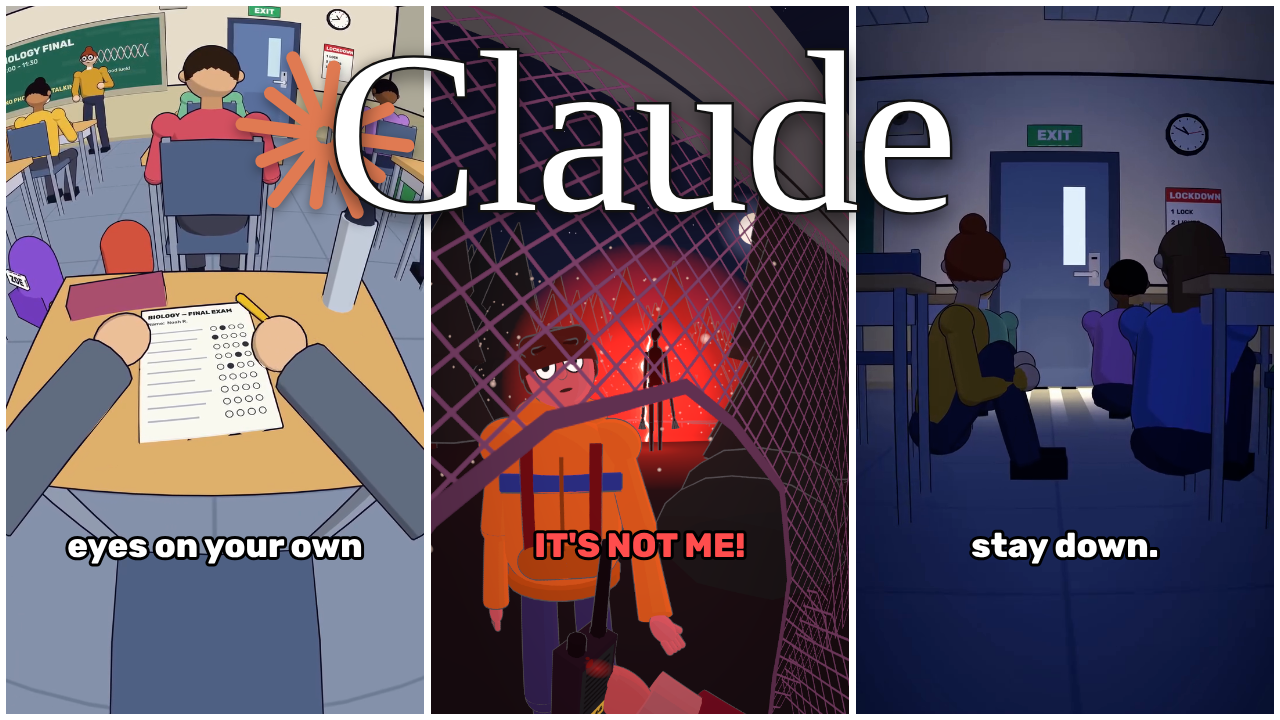
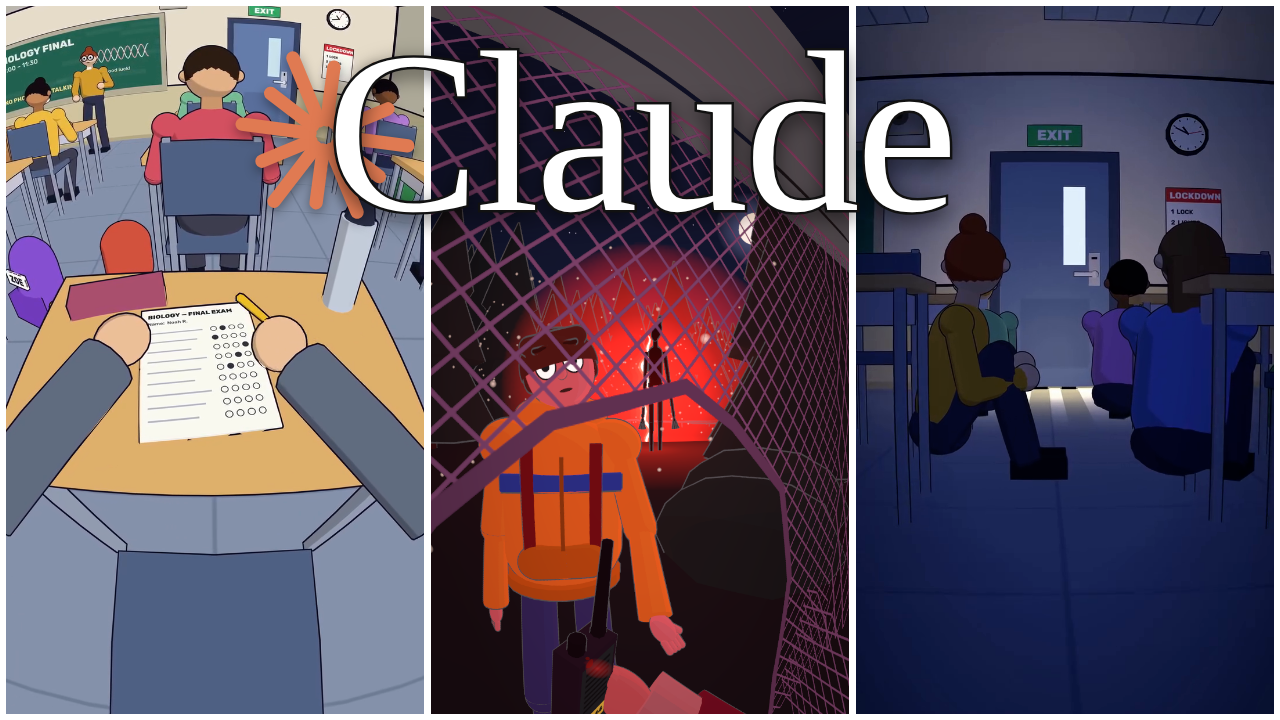
Thumbnail D: remove captions
Claude-Session: https://claude.ai/code/session_01JJgcSDNRpXtr4HRnjUMq2A

Changed region(s): [[0.0312, 0.7333, 0.2812, 0.7944], [0.4062, 0.7333, 0.5938, 0.7944], [0.75, 0.7333, 0.9062, 0.7944]]

diff --git a/reels/aivxer-tutorial/thumb/t4.html b/reels/aivxer-tutorial/thumb/t4.html
@@ -26,7 +26,4 @@ svg{position:absolute;left:230px;top:40px;width:190px;height:190px;filter:drop-s
 <line x1="4.9" y1="-6.4" x2="26.8" y2="-34.9"/>
 <line x1="7.4" y1="-3.1" x2="33.2" y2="-13.8"/></g></svg>
 <h1>Claude</h1>
-<div class="sub" style="left:6px">eyes on your own</div>
-<div class="sub" style="left:431px;color:#ff4d4d">IT'S NOT ME!</div>
-<div class="sub" style="left:856px">stay down.</div>
 </div></body></html>
